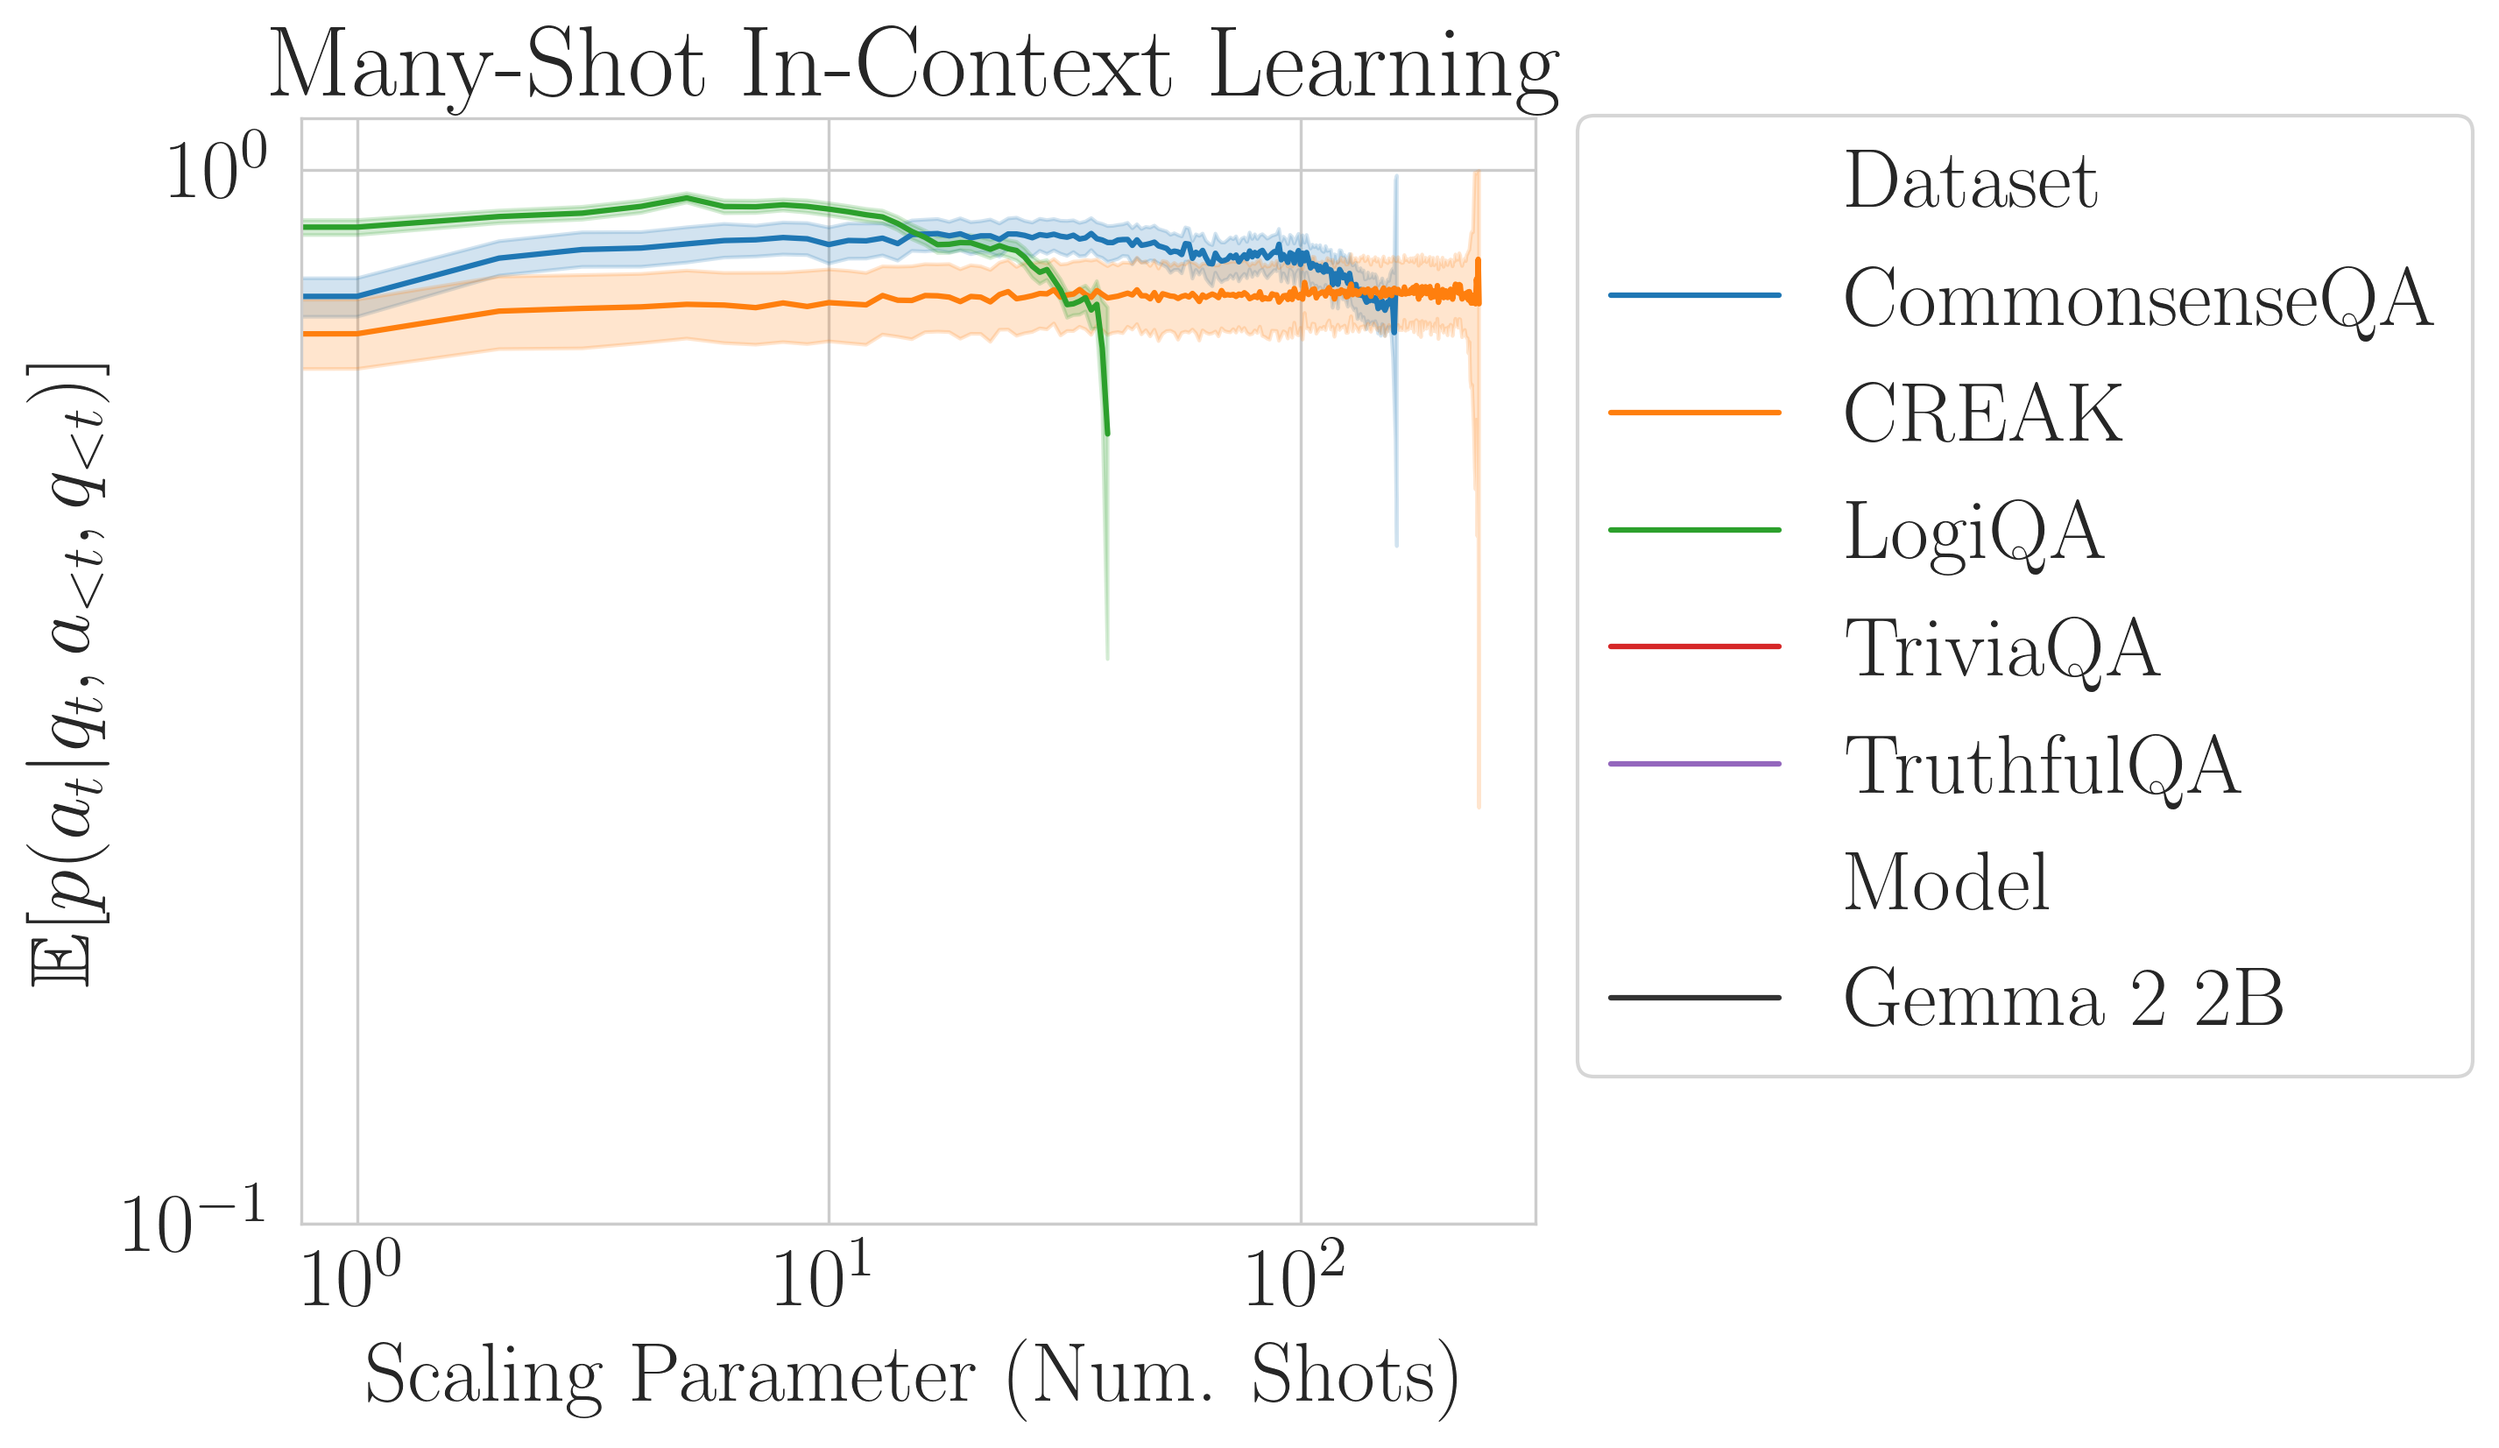
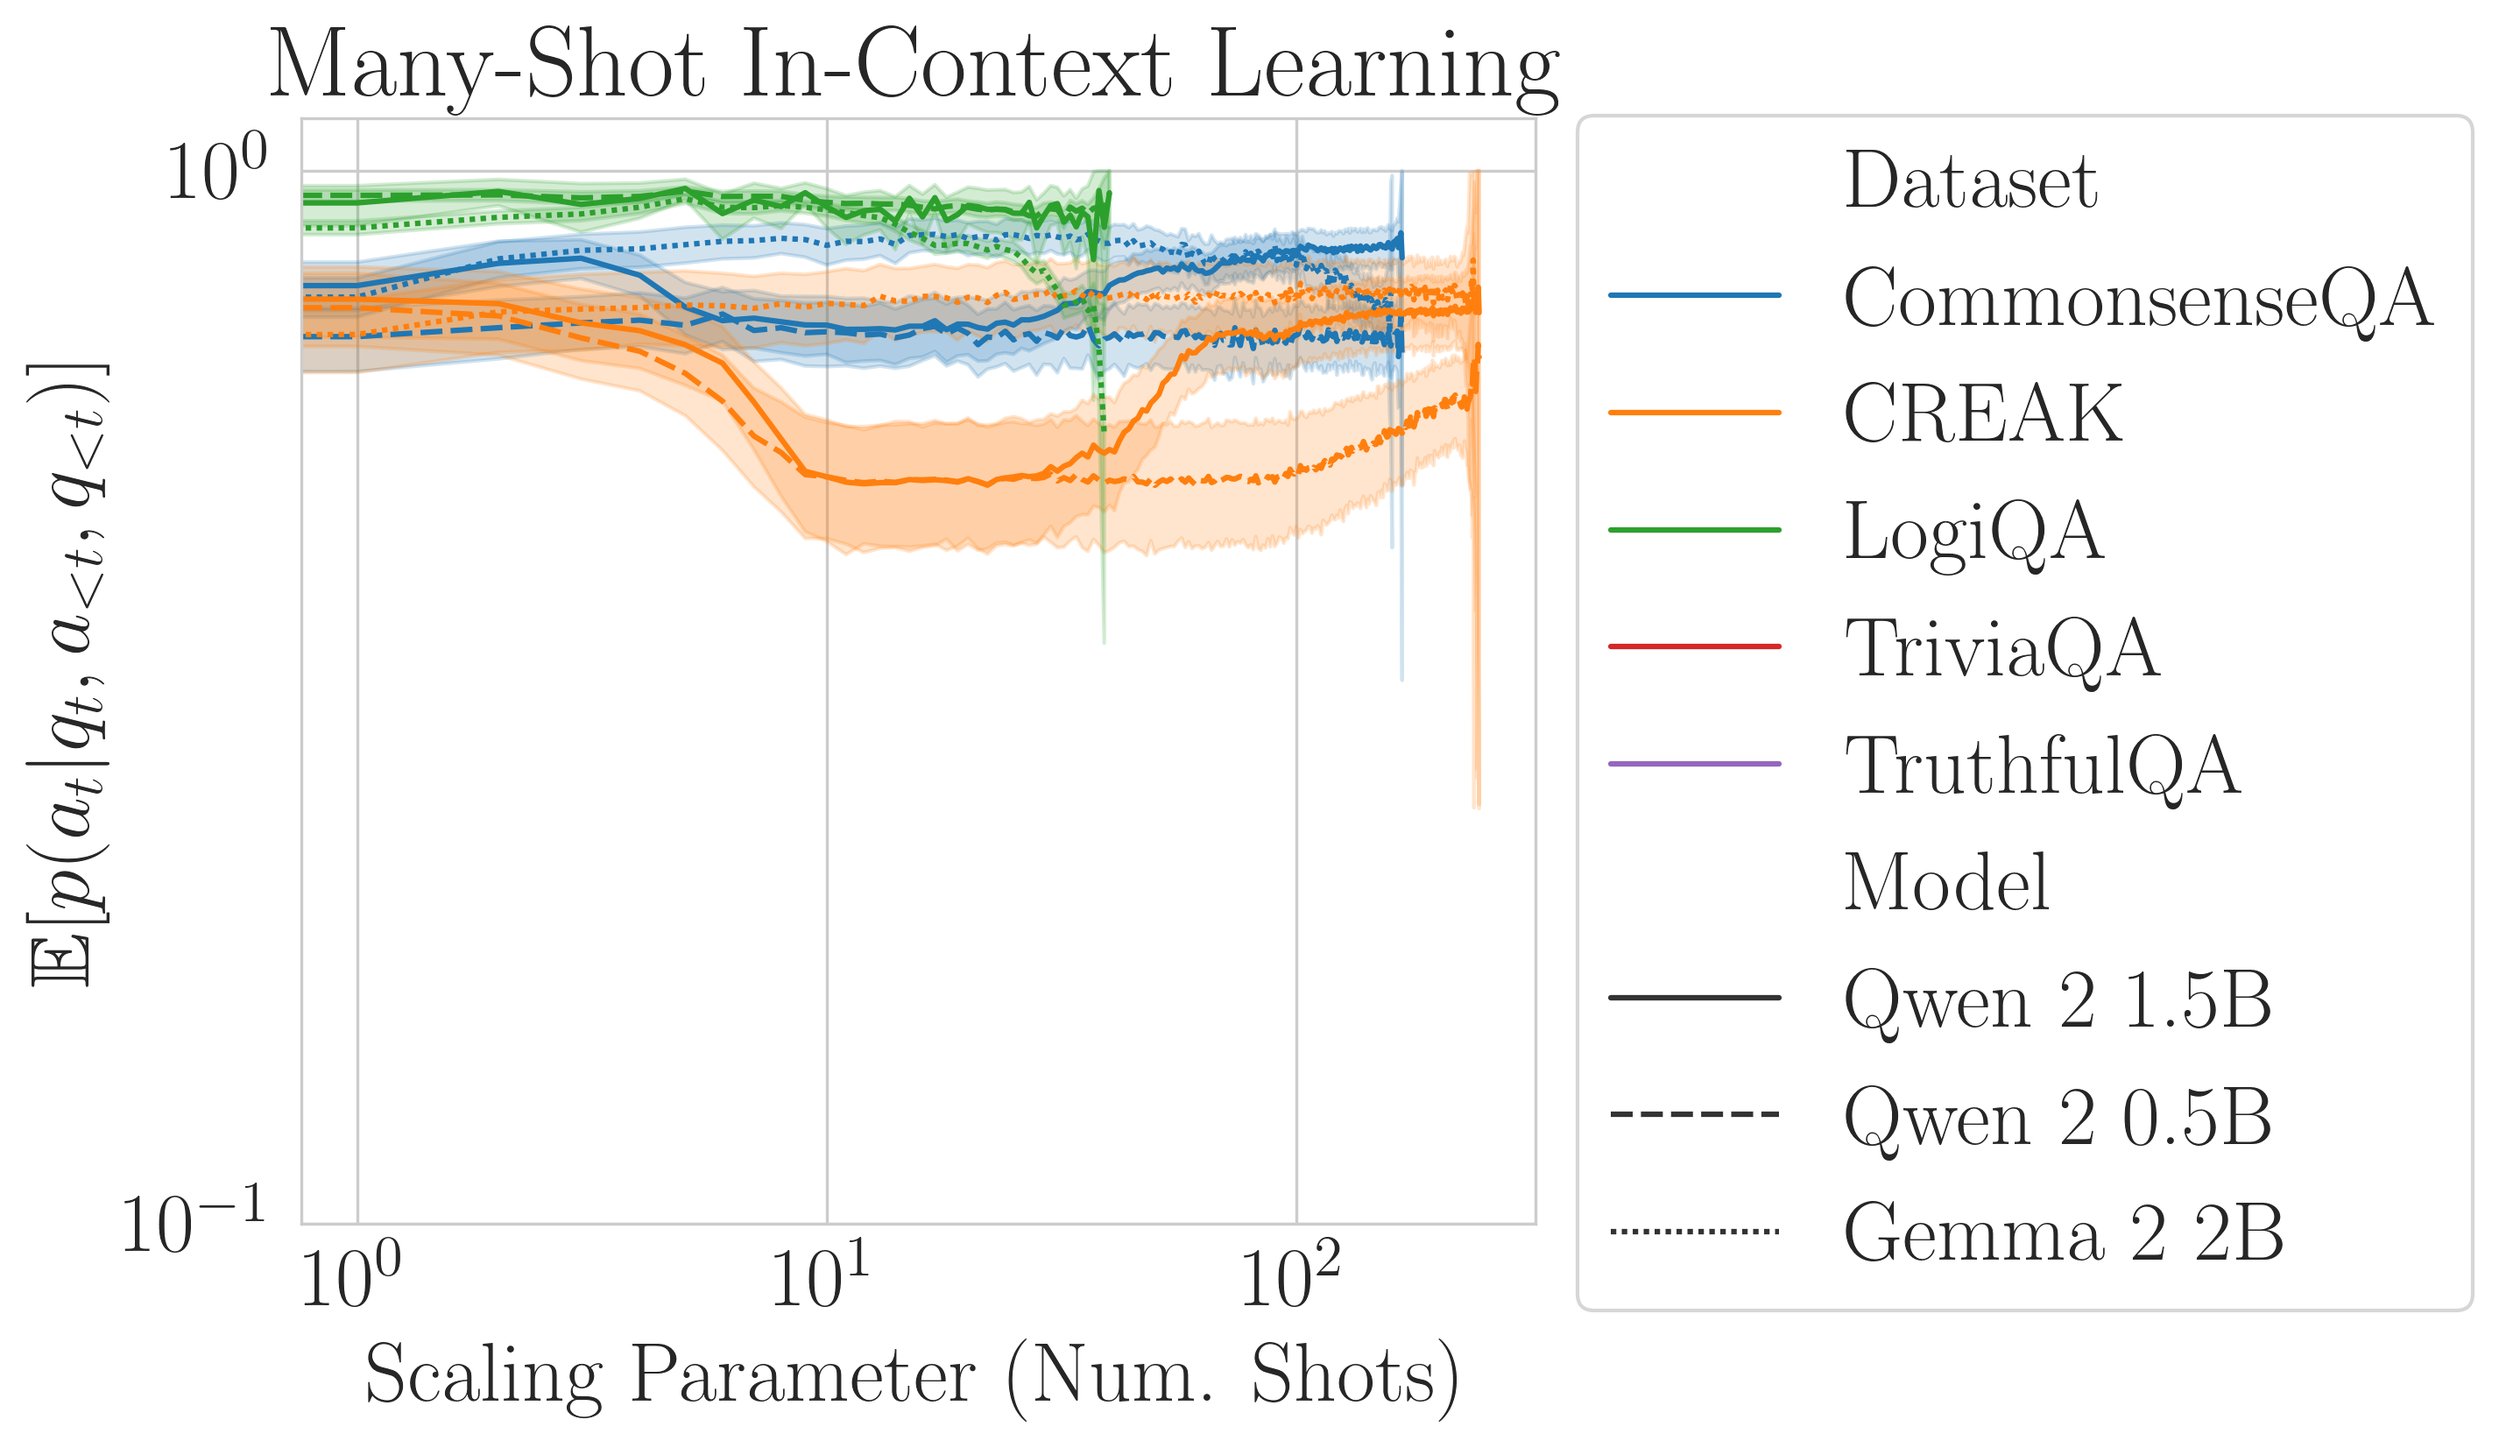
What is going on with Many-Shot ICL?

diff --git a/notebooks/05_many_shot_in_context_scaling/05_many_shot_in_context_scaling.py b/notebooks/05_many_shot_in_context_scaling/05_many_shot_in_context_scaling.py
@@ -38,7 +38,7 @@ g.set(
     xlabel=r"Scaling Parameter (Num. Shots)",
     yscale="log",
     ylabel=r"$\mathbb{E}[p(a_t | q_t, a_{<t}, q_{<t})]$",
-    ylim=(1e-1, None),
+    # ylim=(1e-1, None),
 )
 sns.move_legend(g, "upper left", bbox_to_anchor=(1, 1.04))
 src.plot.save_plot_with_multiple_extensions(
@@ -68,14 +68,14 @@ g = sns.lineplot(
     x="Scaling Parameter",
     y="Neg Log Score",
     hue="Dataset",
-    hue_order=src.globals.CAUSAL_LANGUAGE_MODELING_DATASETS_ORDER,
+    hue_order=src.globals.MANY_SHOT_IN_CONTEXT_LEARNING_DATASET_ORDER,
     style="Model",
 )
 g.set(
-    title="Causal Language Modeling",
+    title="Many-Shot In-Context Learning",
     xscale="log",
     xlabel=r"Scaling Parameter (Pretraining FLOP)",
-    ylabel=r"$-\log \mathbb{E}[p(x_t | x_{<t})]$",
+    ylabel=r"$-\log \mathbb{E}[p(a_t | q_t, a_{<t}, q_{<t})]$",
     yscale="log",
 )
 sns.move_legend(g, "upper left", bbox_to_anchor=(1, 1.04))

diff --git a/scripts/compute_nll_for_many_shot_icl.py b/scripts/compute_nll_for_many_shot_icl.py
@@ -17,13 +17,13 @@ raw_data_dir = "data/raw_data/many_shot_icl"
 os.makedirs(raw_data_dir, exist_ok=True)
 
 model_nicknames_to_huggingface_paths_and_max_context_lengths_dict = {
-    "Gemma 2 2B": ("google/gemma-2-2b", 8192),  # 8192
-    "Gemma 2 9B": ("google/gemma-2-9b", 8192),
-    "Llama 3 8B": ("meta-llama/Meta-Llama-3-8B", 8192),
+    # "Gemma 2 2B": ("google/gemma-2-2b", 8192),  # 8192
+    # "Gemma 2 9B": ("google/gemma-2-9b", 8192),
+    # "Llama 3 8B": ("meta-llama/Meta-Llama-3-8B", 8192),
     "Mistral v0.3 7B": ("mistralai/Mistral-7B-v0.3", 8192),  # 32768
     # "OLMo-2 7B": ("allenai/OLMo-2-1124-7B", 4096),
     # "OLMo-2 13B": ("allenai/OLMo-2-1124-13B", 4096),
-    "Qwen 2.5 7B": ("Qwen/Qwen2.5-7B", 131072),
+    "Qwen 2.5 7B": ("Qwen/Qwen2.5-7B", 8192),  # 131072
     "Qwen 2 0.5B": ("Qwen/Qwen2-0.5B", 8192),  # 131072
     "Qwen 2 1.5B": ("Qwen/Qwen2-1.5B", 8192),  # 131072
 }

diff --git a/README.md b/README.md
@@ -14,6 +14,8 @@
 
 `conda install -c conda-forge numpy pandas scipy matplotlib seaborn pyarrow fsspec datasets huggingface_hub -y`
 
-4. If generating the Many-Shot Jailbreaking data:
+4. If generating the Many-Shot In-Context Learning data:
 
 `conda install pytorch-gpu torchvision torchaudio pytorch-cuda=12.4 -c pytorch -c nvidia -y`
+
+`pip install protobuf sentencepiece`
